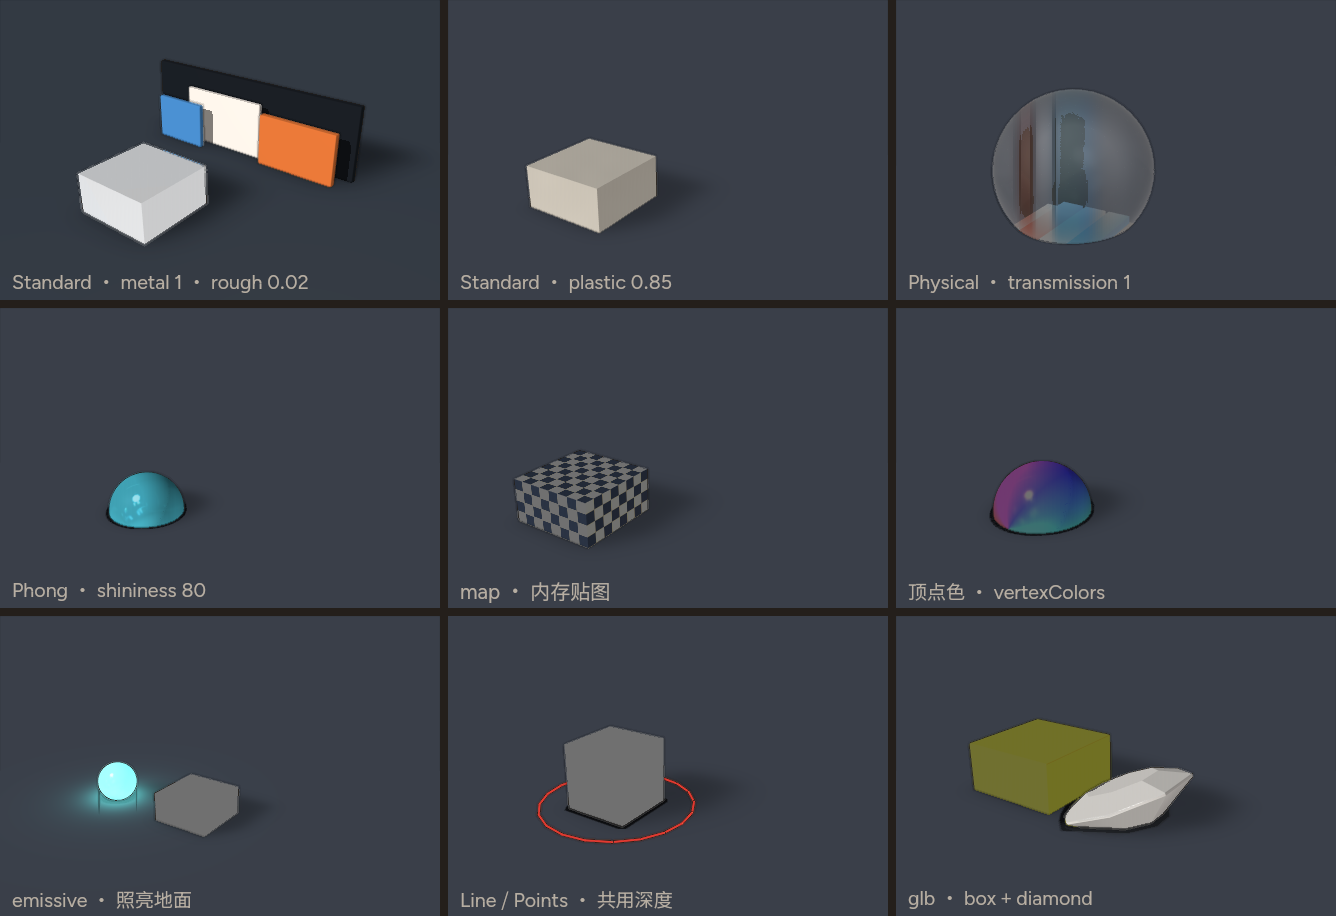
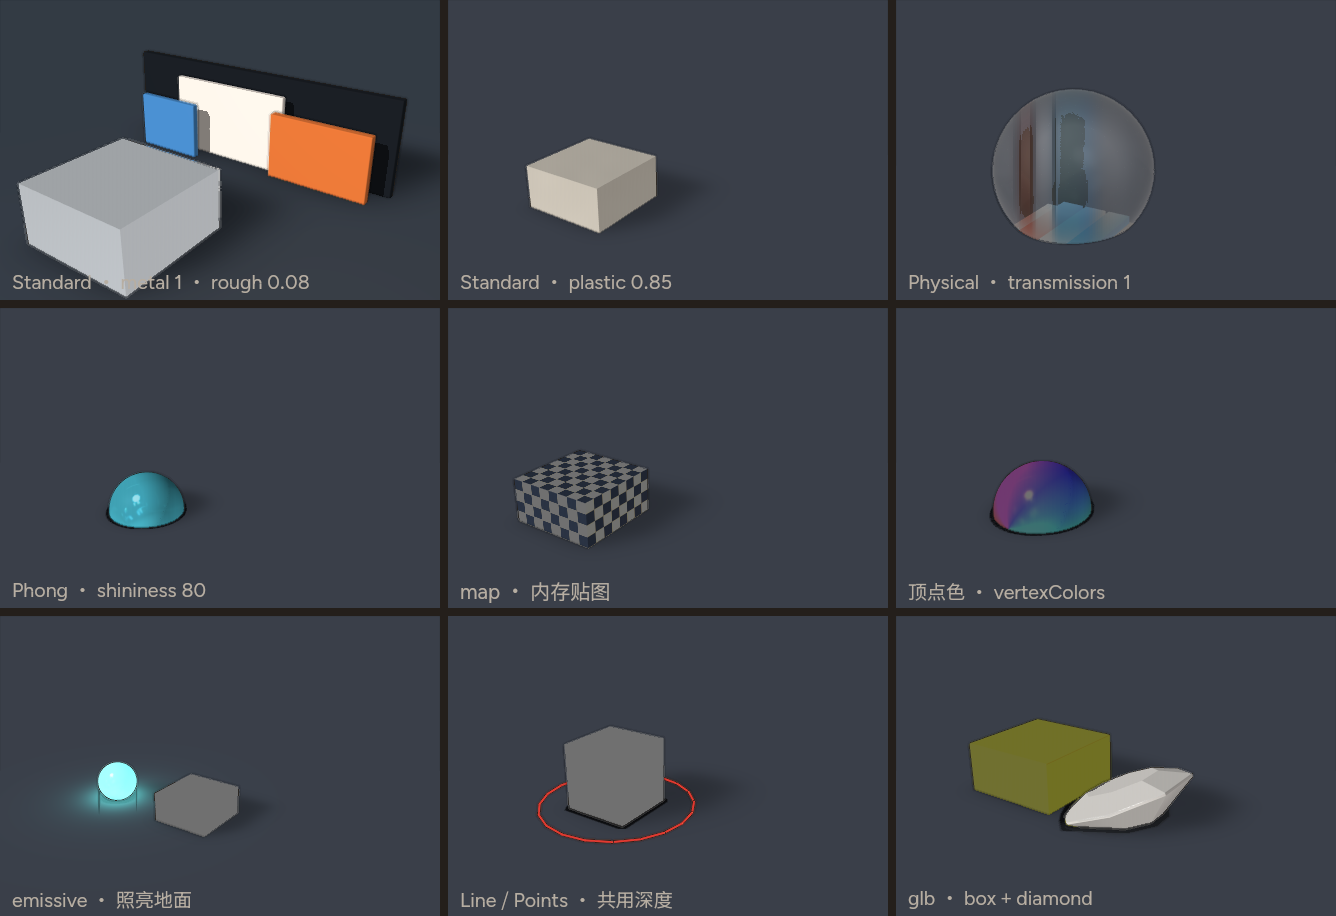
QUALITY-6 fillmild: drop materials key3; readable model metal
Third lamp read as wall halo under dual-blind B. Standard-metal cell
uses mid silver r0.08 and a larger unit so polish is not flat matte white.

Changed region(s): [[0.0, 0.0611, 0.3069, 0.3362]]

diff --git a/docs/gallery/3d/model/standard-metal.tsx b/docs/gallery/3d/model/standard-metal.tsx
@@ -7,28 +7,29 @@ import * as THREE from 'three'
 // Mid-silver + bounce cards; polishfill weak FILL left a matte cutout (§9.2).
 const mesh = new THREE.Mesh(
   new THREE.BoxGeometry(1, 1, 1),
-  // Mintgate: mintbars B still flat diffuse grey at 0.03 — mirror polish + bigger bounce.
-  new THREE.MeshStandardMaterial({ color: '#e0e6ee', metalness: 1, roughness: 0.02 }),
+  // Fillcell: dual-blind B read 0.02 polish as flat matte white — cooler mid
+  // silver + slightly higher roughness so studio panels show as reflection.
+  new THREE.MeshStandardMaterial({ color: '#b8c2cc', metalness: 1, roughness: 0.08 }),
 )
 
 export default layer.create(
   <layer width={440} height={300} background="#241f1b" expect="overflow-canvas: bounce walls">
-    <layer width={440} height={300} camera="fov 34, orbit 38 26, distance 860, at 220 200 0" light="world">
-      <light type="hemisphere" intensity="0.55" color="#e8eef4" ground-color="#3a4048" />
-      <light type="directional" intensity="0.85" color="#ffffff" x="-180" y="-420" z="520" target="0 0 0" />
-      <light type="point" intensity="2.4" color="#ff9a4a" x="300" y="40" z="220" distance="700" />
-      <light type="point" intensity="1.2" color="#8ec8ff" x="-120" y="60" z="180" distance="500" />
+    <layer width={440} height={300} camera="fov 32, orbit 36 24, distance 720, at 220 185 0" light="world">
+      <light type="hemisphere" intensity="0.45" color="#e8eef4" ground-color="#3a4048" />
+      <light type="directional" intensity="1.05" color="#ffffff" x="-180" y="-420" z="520" target="0 0 0" />
+      <light type="point" intensity="3.0" color="#ff9a4a" x="300" y="40" z="220" distance="700" />
+      <light type="point" intensity="1.6" color="#8ec8ff" x="-120" y="60" z="180" distance="500" />
       <ground y={220} rotateX={90} fill="#2a3038" shadow-blur={52} shadow-opacity={0.34} />
       <layer x={28} y={220} width={400} height={190} origin="200 0" rotateX={90} preserve-3d>
         <rect x="-10" y="-80" width="420" height="12" depth="260" fill="#1a1e24" />
         <rect x="250" y="-45" width="140" height="12" depth="180" fill="#e87838" />
         <rect x="30" y="-30" width="100" height="10" depth="160" fill="#4a8fd0" />
-        <rect x="80" y="-55" width="160" height="8" depth="200" fill="#fff4ea" />
-        <model object={mesh} unit={128} x={200} y={190} material="finish metal, color #d8e0e8, roughness 0.04, metalness 1" />
+        <rect x="80" y="-55" width="180" height="8" depth="220" fill="#fff4ea" />
+        <model object={mesh} unit={150} x={200} y={190} material="finish metal, color #b8c2cc, roughness 0.08, metalness 1" />
       </layer>
     </layer>
     <layer x={12} y={272}>
-      <p style="font-size:19px; color:#b7aea2">Standard · metal 1 · rough 0.02</p>
+      <p style="font-size:19px; color:#b7aea2">Standard · metal 1 · rough 0.08</p>
     </layer>
   </layer>,
 )

diff --git a/scripts/gallery-3d.ts b/scripts/gallery-3d.ts
@@ -205,6 +205,7 @@ function cluster(finish: Finish): string {
     : `<sphere id="side" cx="330" cy="78" r="28" z="28" fill="#e0a33a" material="plastic 0.35" />`
   // Warm back + accent + lamp keys so polished metal shows a highlight
   // instead of near-black (QUALITY-6 §9.2). Keep studio orbit for gates.
+  // Fillmild: drop key3 — third lamp read as wall/halo cluster under §9.2 B.
   return `<layer width="440" height="300" camera="fov 32, orbit 34 22, distance 860, at 220 160 0">
     <ground id="ground" y="220" rotateX="90" fill="#e7e0d4" shadow-blur="32" shadow-opacity="0.35" />
     <layer x="28" y="220" width="400" height="190" origin="200 0" rotateX="90" preserve-3d>
@@ -212,7 +213,6 @@ function cluster(finish: Finish): string {
       <rect id="accent" x="280" y="-50" width="100" height="14" depth="180" fill="#f0a060" />
       <sphere id="key" cx="90" cy="-10" r="42" z="170" material="lamp" />
       <sphere id="key2" cx="300" cy="-30" r="30" z="140" material="lamp" />
-      <sphere id="key3" cx="200" cy="-50" r="22" z="150" material="lamp" />
       <rect id="bounce" x="40" y="-70" width="200" height="8" depth="220" fill="#fff8f0" />
       <rect id="plinth" x="40" y="4" width="340" height="8" depth="110" fill="#f6f2ea" />
       ${box}
